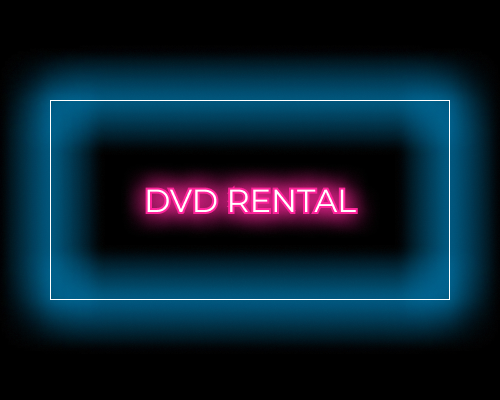
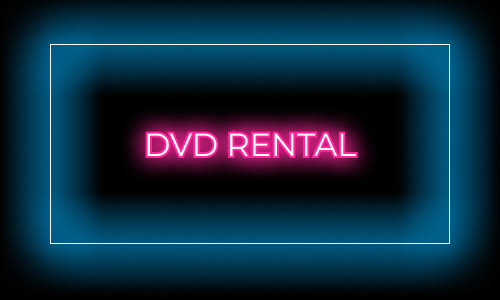
Update readme and image
- updated conclusion
- updated list of functions used
- updated image

diff --git a/README.md b/README.md
@@ -68,6 +68,7 @@ Here, you'll find queries that identify films based on the number of special fea
 ## SQL Functions
 
 Here is a list of the built-in SQL functions that was used in analyses related to the DVD store:
+
 Aggregation Functions:
   - COUNT()
   - SUM()
@@ -106,9 +107,7 @@ These functions are commonly used in SQL for various purposes such as aggregatin
 
 ## Conclusion
 
-This repository provides a comprehensive analysis of the DVD store's data, offering insights into customer behavior, rental patterns, revenue trends, and inventory management. The SQL queries can be used as a starting point for further analysis and decision-making.
-
-Overall, the data analysis provided valuable insights into customer preferences, rental patterns, revenue trends, and inventory management. This information can help the DVD store make informed decisions, improve customer satisfaction, and optimize its inventory to meet customer demands effectively.
+Overall, the data analysis provided a comprehensive analysis of the DVD store's data, offering insights into customer behavior, rental patterns, revenue trends, and inventory management. The SQL queries can be used as a starting point for further analysis and decision-making.
 
 Data Source - https://www.postgresqltutorial.com/postgresql-getting-started/postgresql-sample-database/
 
